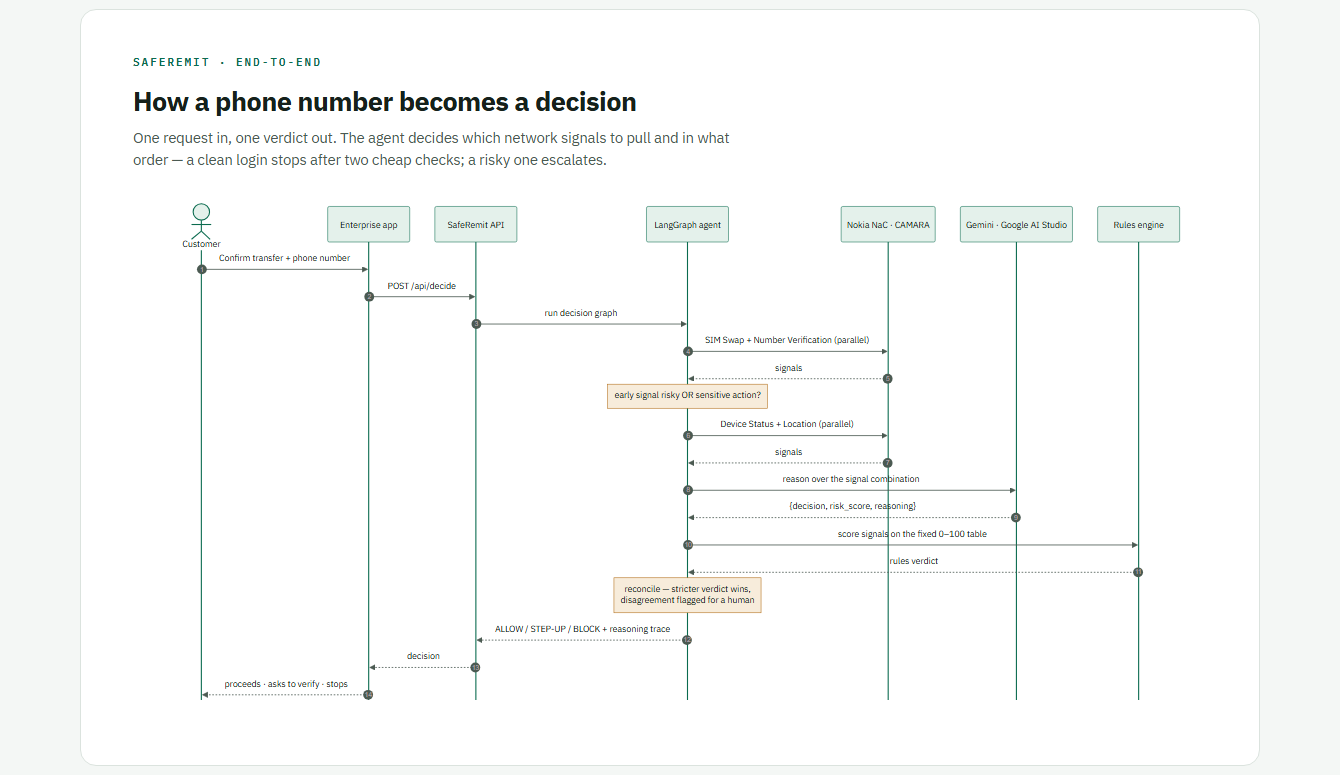
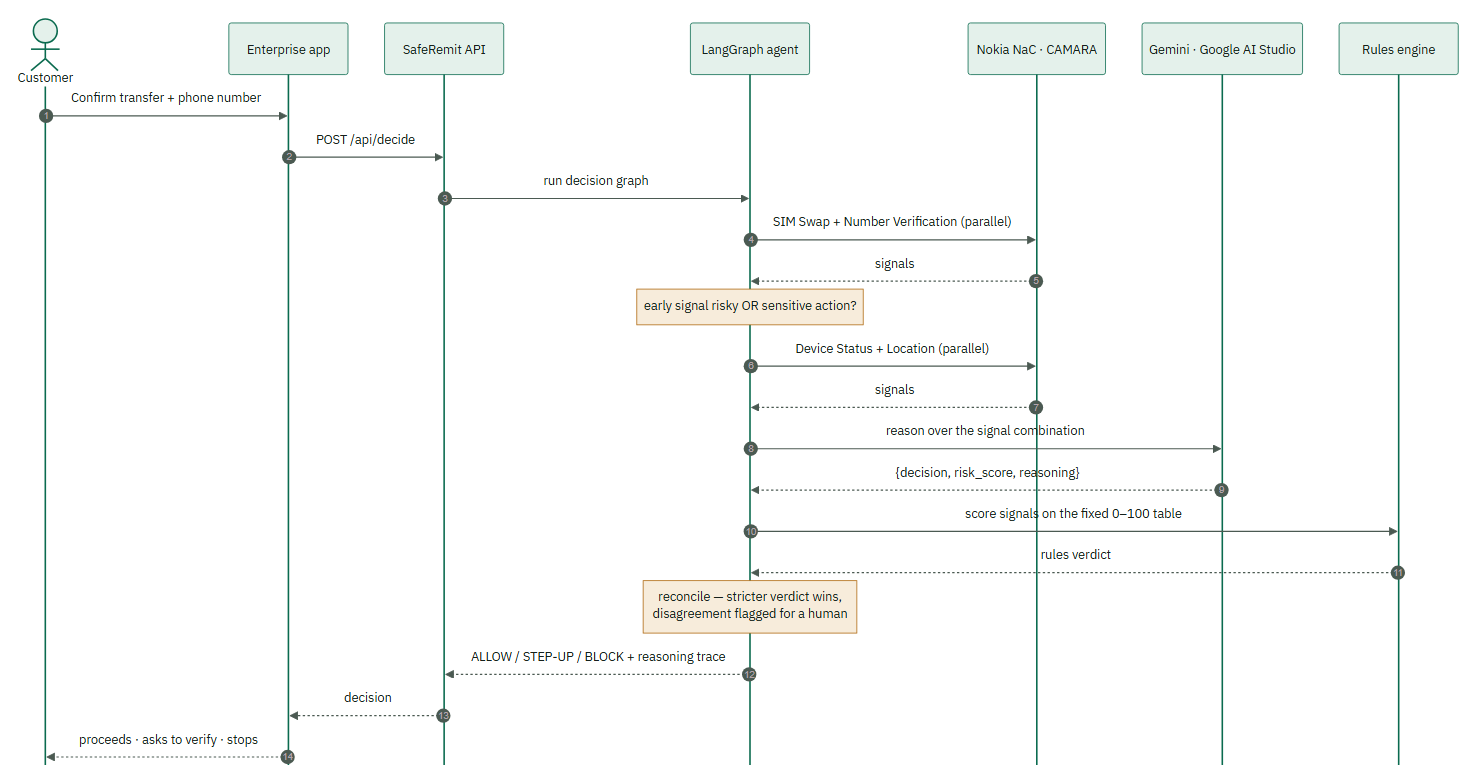
docs: tight-cropped diagram exports + SVG label rendering
Claude-Session: https://claude.ai/code/session_011R8AqJwvzsFW87vRhfSVZB

diff --git a/docs/architecture.html b/docs/architecture.html
@@ -188,6 +188,18 @@ flowchart TD
 </section>
 
 <script>
+  // ?only=journey|architecture|agent|detail — isolate one board, no card chrome, for image export
+  (function(){
+    var only = new URLSearchParams(location.search).get("only");
+    if(!only) return;
+    document.body.style.background = "#ffffff";
+    document.querySelectorAll(".board").forEach(function(b){
+      if(b.id !== only){ b.remove(); return; }
+      b.style.border = "0"; b.style.margin = "0"; b.style.padding = "24px";
+      b.style.maxWidth = "none"; b.style.borderRadius = "0";
+      b.querySelectorAll(".eyebrow, h1, .sub").forEach(function(e){ e.remove(); });
+    });
+  })();
   mermaid.initialize({
     startOnLoad: true,
     theme: "base",
@@ -209,7 +221,7 @@ flowchart TD
       noteBorderColor: "#b06a12",
       noteTextColor: "#15201b"
     },
-    flowchart: { curve: "basis", nodeSpacing: 40, rankSpacing: 55, htmlLabels: true },
+    flowchart: { curve: "basis", nodeSpacing: 44, rankSpacing: 58, htmlLabels: false, padding: 14 },
     sequence: { actorMargin: 46, boxMargin: 10, mirrorActors: false, noteMargin: 12, messageMargin: 34 }
   });
 </script>
